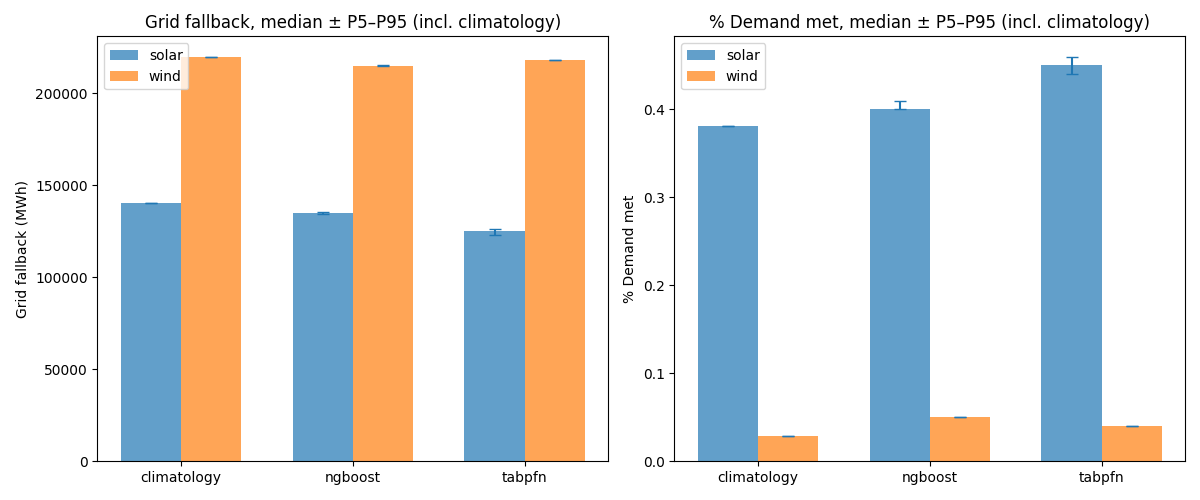
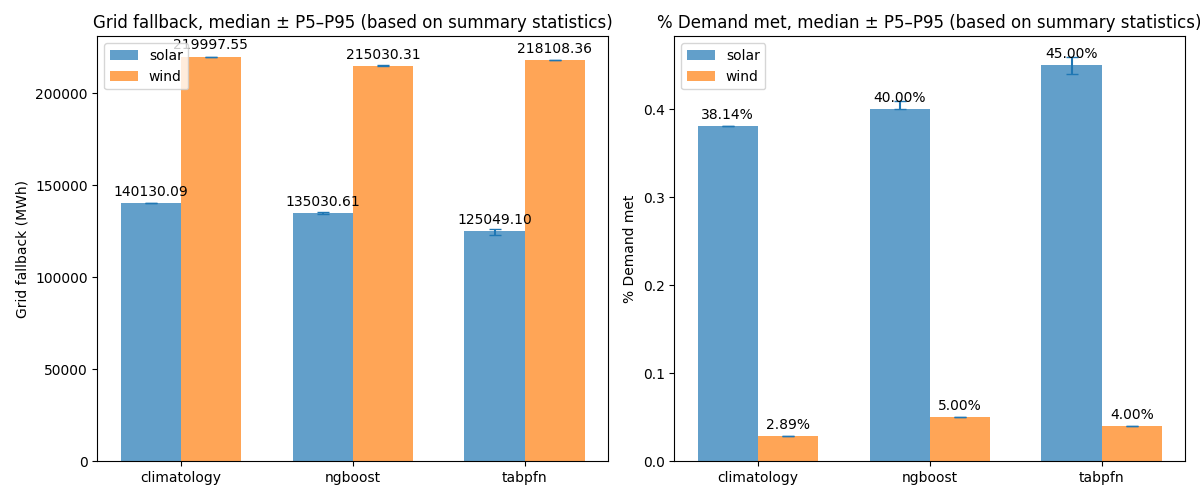
made changes

diff --git a/src/grid_simul/grid_visual.py b/src/grid_simul/grid_visual.py
@@ -34,9 +34,11 @@ width     = 0.35
 
 fig, (ax1, ax2) = plt.subplots(1, 2, figsize=(12, 5))
 
+# Improved Bar Plot with Data Labels
+
 # ── Panel 1: Grid fallback ────────────────────────────────────
 for i, res in enumerate(resources):
-    # 1) Climatology baseline (no MC uncertainty)
+    # Climatology baseline (no MC uncertainty)
     fc_clim = pd.read_csv(
         MODEL_ROOT / res / "outputs" / f"{res}_merged_forecasts.csv",
         parse_dates=["datetime"], index_col="datetime"
@@ -46,29 +48,38 @@ for i, res in enumerate(resources):
         clim_met["grid_fallback_MWh"], 0.0, 0.0
     )
 
-    # 2) ML model summaries from your sim_uncertainty output
+    # ML model summaries from your sim_uncertainty output
     sub = summary_df[summary_df.resource == res]
-    ml_med   = [sub[sub.model == m]["fallback_P50_MWh"].item() for m in ml_models]
-    ml_low   = [sub[sub.model == m]["fallback_P50_MWh"].item() - sub[sub.model == m]["fallback_P5_MWh"].item() for m in ml_models]
-    ml_high  = [sub[sub.model == m]["fallback_P95_MWh"].item() - sub[sub.model == m]["fallback_P50_MWh"].item() for m in ml_models]
+    ml_med = [sub[sub.model == m]["fallback_P50_MWh"].item() for m in ml_models]
+    ml_low = [sub[sub.model == m]["fallback_P50_MWh"].item() - sub[sub.model == m]["fallback_P5_MWh"].item() for m in ml_models]
+    ml_high = [sub[sub.model == m]["fallback_P95_MWh"].item() - sub[sub.model == m]["fallback_P50_MWh"].item() for m in ml_models]
 
-    meds  = [clim_med] + ml_med
-    lows  = [clim_low] + ml_low
+    meds = [clim_med] + ml_med
+    lows = [clim_low] + ml_low
     highs = [clim_high] + ml_high
 
     pos = x + (i - 0.5) * width
-    ax1.bar(pos, meds, width, label=res, alpha=0.7)
+    bars = ax1.bar(pos, meds, width, label=res, alpha=0.7)
     ax1.errorbar(pos, meds, yerr=[lows, highs], fmt="none", capsize=4)
+
+    # Add data labels on top of each bar
+    for bar, med in zip(bars, meds):
+        height = bar.get_height()
+        ax1.annotate(f'{med:.2f}',
+                    xy=(bar.get_x() + bar.get_width() / 2, height),
+                    xytext=(0, 3),  # 3 points vertical offset
+                    textcoords="offset points",
+                    ha='center', va='bottom')
 
 ax1.set_xticks(x)
 ax1.set_xticklabels(models)
 ax1.set_ylabel("Grid fallback (MWh)")
-ax1.set_title("Grid fallback, median ± P5–P95 (incl. climatology)")
+ax1.set_title("Grid fallback, median ± P5–P95 (based on summary statistics)")
 ax1.legend()
 
 # ── Panel 2: % Demand met ────────────────────────────────────
 for i, res in enumerate(resources):
-    # 1) Climatology baseline
+    # Climatology baseline
     fc_clim = pd.read_csv(
         MODEL_ROOT / res / "outputs" / f"{res}_merged_forecasts.csv",
         parse_dates=["datetime"], index_col="datetime"
@@ -78,27 +89,36 @@ for i, res in enumerate(resources):
         clim_met["percent_demand_met"], 0.0, 0.0
     )
 
-    # 2) ML summaries
+    # ML summaries
     sub = summary_df[summary_df.resource == res]
-    ml_med   = [sub[sub.model == m]["met_P50_pct"].item() for m in ml_models]
-    ml_low   = [sub[sub.model == m]["met_P50_pct"].item() - sub[sub.model == m]["met_P5_pct"].item() for m in ml_models]
-    ml_high  = [sub[sub.model == m]["met_P95_pct"].item() - sub[sub.model == m]["met_P50_pct"].item() for m in ml_models]
+    ml_med = [sub[sub.model == m]["met_P50_pct"].item() for m in ml_models]
+    ml_low = [sub[sub.model == m]["met_P50_pct"].item() - sub[sub.model == m]["met_P5_pct"].item() for m in ml_models]
+    ml_high = [sub[sub.model == m]["met_P95_pct"].item() - sub[sub.model == m]["met_P50_pct"].item() for m in ml_models]
 
-    meds  = [clim_med] + ml_med
-    lows  = [clim_low] + ml_low
+    meds = [clim_med] + ml_med
+    lows = [clim_low] + ml_low
     highs = [clim_high] + ml_high
 
     pos = x + (i - 0.5) * width
-    ax2.bar(pos, meds, width, label=res, alpha=0.7)
+    bars = ax2.bar(pos, meds, width, label=res, alpha=0.7)
     ax2.errorbar(pos, meds, yerr=[lows, highs], fmt="none", capsize=4)
+
+    # Add data labels on top of each bar
+    for bar, med in zip(bars, meds):
+        height = bar.get_height()
+        ax2.annotate(f'{med:.2%}',
+                    xy=(bar.get_x() + bar.get_width() / 2, height),
+                    xytext=(0, 3),  # 3 points vertical offset
+                    textcoords="offset points",
+                    ha='center', va='bottom')
 
 ax2.set_xticks(x)
 ax2.set_xticklabels(models)
 ax2.set_ylabel("% Demand met")
-ax2.set_title("% Demand met, median ± P5–P95 (incl. climatology)")
+ax2.set_title("% Demand met, median ± P5–P95 (based on summary statistics)")
 ax2.legend()
 
 fig.tight_layout()
 fig.savefig(OUTPUT_PNG)
 plt.close(fig)
-print(f"Saved grid visual to {OUTPUT_PNG}")
+print(f"Saved enhanced grid visual with data labels to {OUTPUT_PNG}")

diff --git a/src/solar-forecasting/baseline_model/perfect.py b/src/solar-forecasting/baseline_model/perfect.py
@@ -1,6 +1,7 @@
 # File: src/solar-forecasting/baseline_model/perfect.py
 #!/usr/bin/env python3
 
+import numpy as np
 from pathlib import Path
 import sys
 sys.path.append(str(Path(__file__).resolve().parents[2]))   # add …/src
